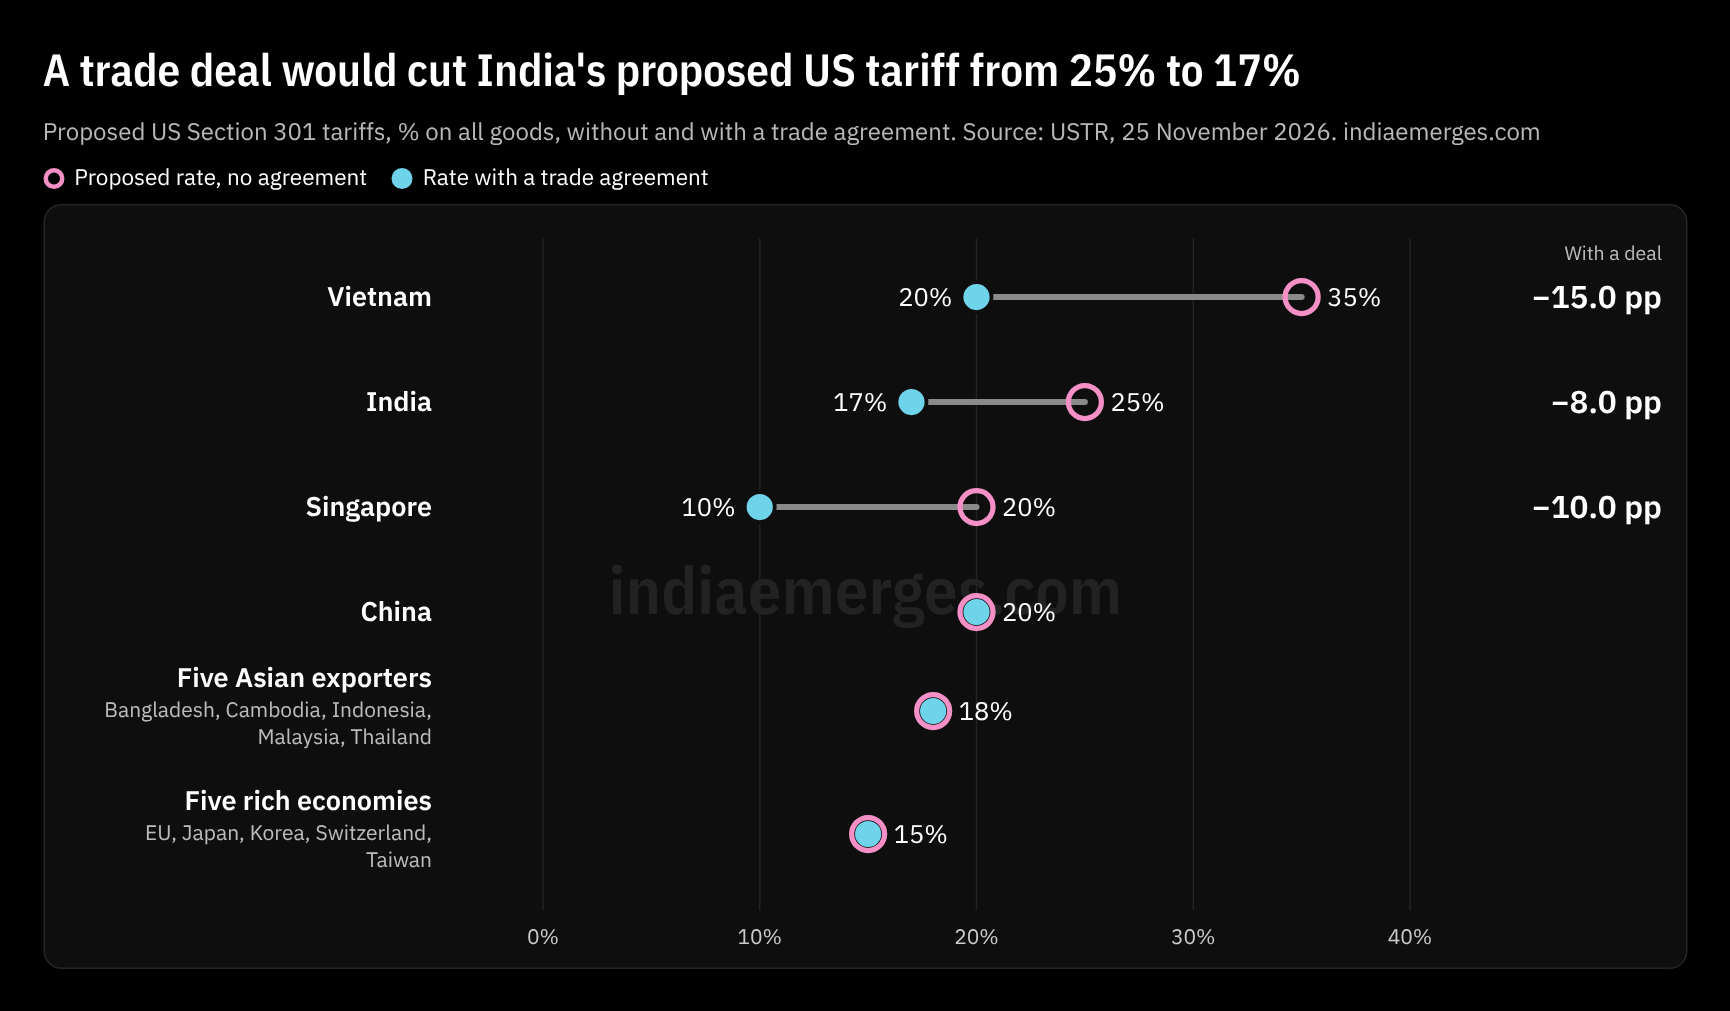
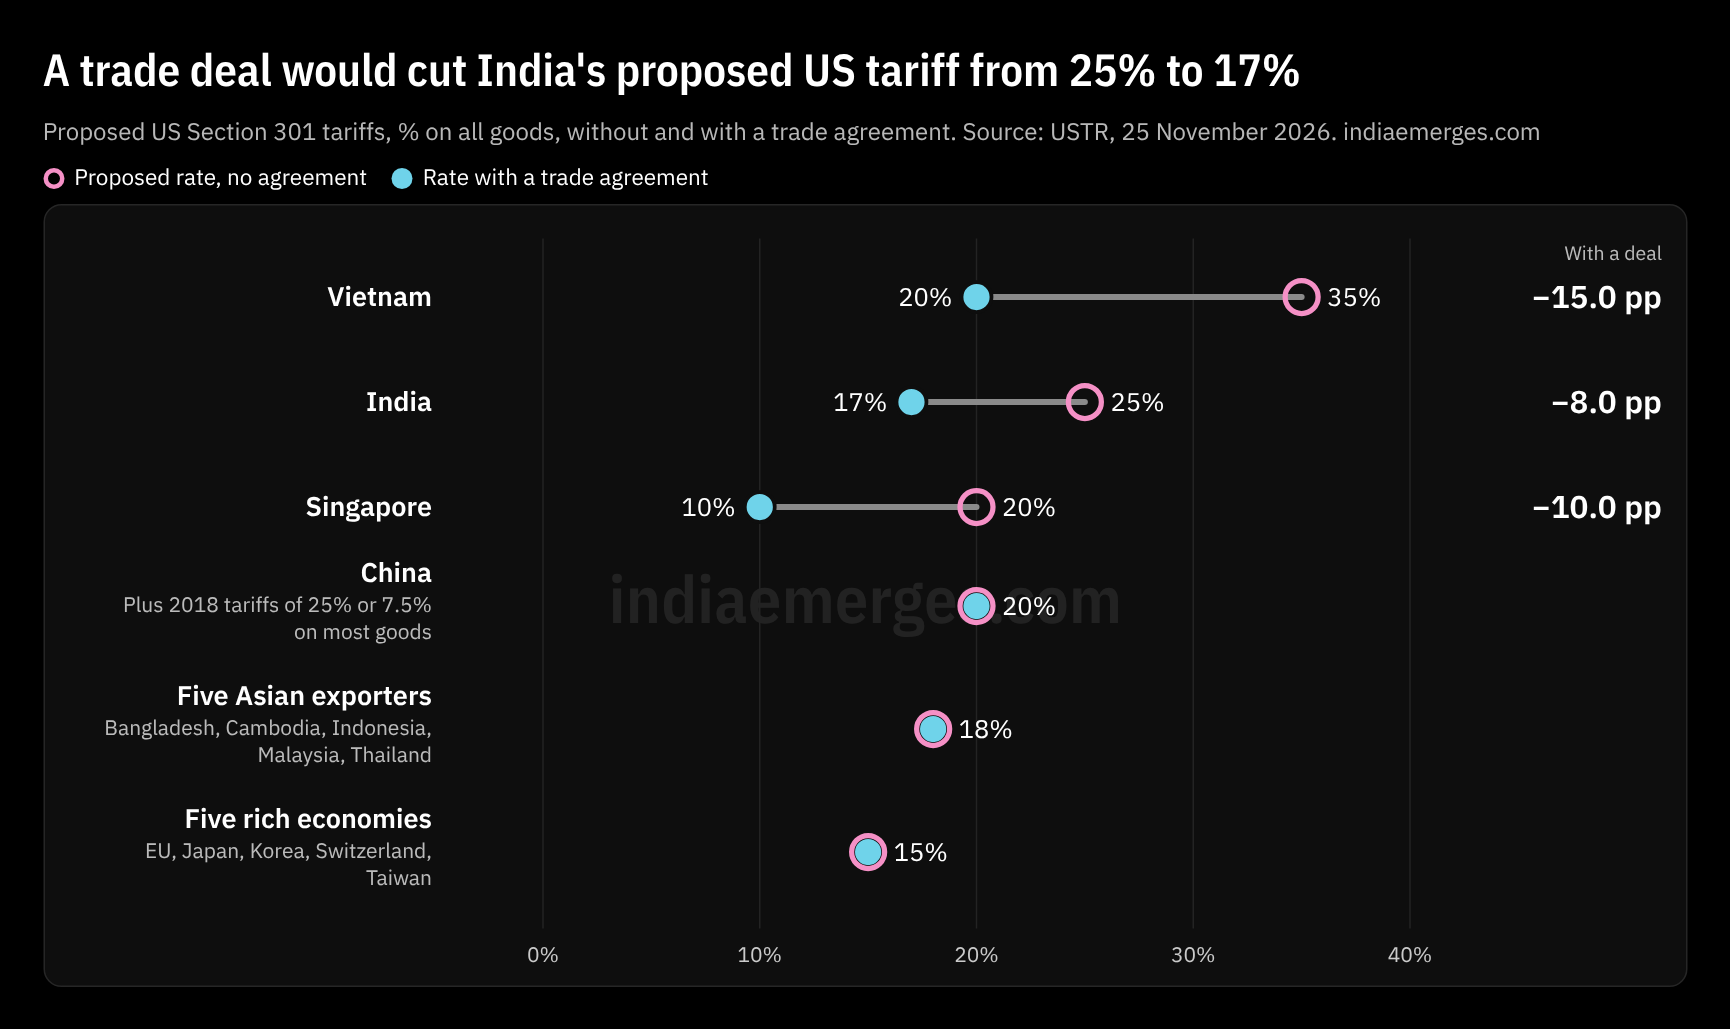
Chart of the day 25 Nov: show that China's 20% stacks on its 2018 tariffs
Claude-Session: https://claude.ai/code/session_014BVoBL9geq5oY9Pd7XYswa

diff --git a/index.html b/index.html
@@ -150,11 +150,11 @@ footer a:hover{color:#fff}
     <!-- CHART:START -->
     <div class="sh"><h2 id="h-chart">Chart of the day</h2><a href="/charts/">All charts →</a></div>
     <figure class="cod">
-      <div class="cod-int" data-spec="{&quot;type&quot;: &quot;dumbbell&quot;, &quot;data&quot;: &quot;/charts/data/2026-11-25-us-tariffs.csv&quot;, &quot;name&quot;: &quot;economy&quot;, &quot;sub&quot;: &quot;members&quot;, &quot;a&quot;: [&quot;rate_without_deal_pct&quot;, &quot;Proposed rate, no agreement&quot;, &quot;#F590C6&quot;], &quot;b&quot;: [&quot;rate_with_deal_pct&quot;, &quot;Rate with a trade agreement&quot;, &quot;#6FD3EA&quot;], &quot;gap&quot;: &quot;deal_difference_pp&quot;, &quot;gapName&quot;: &quot;With a deal&quot;, &quot;note&quot;: &quot;note&quot;, &quot;max&quot;: 40, &quot;unit&quot;: &quot;Proposed additional tariff, % on all goods&quot;, &quot;title&quot;: &quot;A trade deal would cut India&#x27;s proposed US tariff from 25% to 17%&quot;}"><h3>A trade deal would cut India&#x27;s proposed US tariff from 25% to 17%</h3><div class="ctls cod-ui"></div><div class="legend cod-legend"></div><div class="plot"><div class="cod-fallback"><a href="/charts/2026-11-25-us-tariffs.png"><img src="/charts/2026-11-25-us-tariffs.png" alt="Chart of proposed US Section 301 tariff rates, without and with a trade agreement. Vietnam 35% or 20%. India 25% or 17%. Singapore 20% or 10%. China 20%. Bangladesh, Cambodia, Indonesia, Malaysia and Thailand 18%. EU, Japan, Korea, Switzerland and Taiwan 15%." loading="lazy"></a></div><div class="cod-plot"></div></div></div>
+      <div class="cod-int" data-spec="{&quot;type&quot;: &quot;dumbbell&quot;, &quot;data&quot;: &quot;/charts/data/2026-11-25-us-tariffs.csv&quot;, &quot;name&quot;: &quot;economy&quot;, &quot;sub&quot;: &quot;members&quot;, &quot;a&quot;: [&quot;rate_without_deal_pct&quot;, &quot;Proposed rate, no agreement&quot;, &quot;#F590C6&quot;], &quot;b&quot;: [&quot;rate_with_deal_pct&quot;, &quot;Rate with a trade agreement&quot;, &quot;#6FD3EA&quot;], &quot;gap&quot;: &quot;deal_difference_pp&quot;, &quot;gapName&quot;: &quot;With a deal&quot;, &quot;note&quot;: &quot;note&quot;, &quot;max&quot;: 40, &quot;unit&quot;: &quot;Proposed additional tariff, % on all goods&quot;, &quot;title&quot;: &quot;A trade deal would cut India&#x27;s proposed US tariff from 25% to 17%&quot;}"><h3>A trade deal would cut India&#x27;s proposed US tariff from 25% to 17%</h3><div class="ctls cod-ui"></div><div class="legend cod-legend"></div><div class="plot"><div class="cod-fallback"><a href="/charts/2026-11-25-us-tariffs.png"><img src="/charts/2026-11-25-us-tariffs.png" alt="Chart of proposed US Section 301 tariff rates, without and with a trade agreement. Vietnam 35% or 20%. India 25% or 17%. Singapore 20% or 10%. China 20%, on top of existing 2018 tariffs of 25% or 7.5% on most goods. Bangladesh, Cambodia, Indonesia, Malaysia and Thailand 18%. EU, Japan, Korea, Switzerland and Taiwan 15%." loading="lazy"></a></div><div class="cod-plot"></div></div></div>
       <figcaption>
         <time datetime="2026-11-25">25 November 2026</time>
-        <p class="cod-sub">New US tariffs proposed on 25 November 2026 under Section 301 (excess manufacturing capacity), % on all goods. A second rate is offered to India, Vietnam and Singapore if they reach a trade agreement; the other economies face one rate.</p>
-        <p class="cod-cap">Without a deal, India&#x27;s proposed rate of 25% is the second highest after Vietnam&#x27;s 35%. With one, India&#x27;s 17% would be a point below the 18% proposed for Bangladesh, Cambodia, Indonesia, Malaysia and Thailand, and three below Vietnam and China at 20%, though above the 15% for the EU, Japan, Korea, Switzerland and Taiwan. The rates are proposals: hearings begin on 25 January 2027.</p>
+        <p class="cod-sub">New US tariffs proposed on 25 November 2026 under Section 301 (excess manufacturing capacity), % on all goods. A second rate is offered to India, Vietnam and Singapore if they reach a trade agreement. China&#x27;s rate comes on top of its existing 2018 tariffs.</p>
+        <p class="cod-cap">Without a deal, India&#x27;s proposed rate of 25% is the second highest after Vietnam&#x27;s 35%. With one, India&#x27;s 17% would be a point below the 18% proposed for Bangladesh, Cambodia, Indonesia, Malaysia and Thailand, and three below Vietnam at 20%, though above the 15% for the EU, Japan, Korea, Switzerland and Taiwan. China&#x27;s 20% is added to the 25% or 7.5% tariffs it has paid on most goods since 2018, taking the total on those goods to 45% or 27.5%. The rates are proposals: hearings begin on 25 January 2027.</p>
         <p class="cod-src">Source: Office of the US Trade Representative, Section 301 determinations on structural excess capacity, 25 November 2026</p>
       </figcaption>
     </figure>

diff --git a/charts/index.html b/charts/index.html
@@ -33,9 +33,9 @@
     <figure class="arc" id="2026-11-25">
       <time datetime="2026-11-25">25 November 2026</time>
       
-      <div class="cod-int" data-spec="{&quot;type&quot;: &quot;dumbbell&quot;, &quot;data&quot;: &quot;/charts/data/2026-11-25-us-tariffs.csv&quot;, &quot;name&quot;: &quot;economy&quot;, &quot;sub&quot;: &quot;members&quot;, &quot;a&quot;: [&quot;rate_without_deal_pct&quot;, &quot;Proposed rate, no agreement&quot;, &quot;#F590C6&quot;], &quot;b&quot;: [&quot;rate_with_deal_pct&quot;, &quot;Rate with a trade agreement&quot;, &quot;#6FD3EA&quot;], &quot;gap&quot;: &quot;deal_difference_pp&quot;, &quot;gapName&quot;: &quot;With a deal&quot;, &quot;note&quot;: &quot;note&quot;, &quot;max&quot;: 40, &quot;unit&quot;: &quot;Proposed additional tariff, % on all goods&quot;, &quot;title&quot;: &quot;A trade deal would cut India&#x27;s proposed US tariff from 25% to 17%&quot;}"><h3>A trade deal would cut India&#x27;s proposed US tariff from 25% to 17%</h3><div class="ctls cod-ui"></div><div class="legend cod-legend"></div><div class="plot"><div class="cod-fallback"><a href="/charts/2026-11-25-us-tariffs.png"><img src="/charts/2026-11-25-us-tariffs.png" alt="Chart of proposed US Section 301 tariff rates, without and with a trade agreement. Vietnam 35% or 20%. India 25% or 17%. Singapore 20% or 10%. China 20%. Bangladesh, Cambodia, Indonesia, Malaysia and Thailand 18%. EU, Japan, Korea, Switzerland and Taiwan 15%." loading="lazy"></a></div><div class="cod-plot"></div></div></div>
-      <p class="sub2">New US tariffs proposed on 25 November 2026 under Section 301 (excess manufacturing capacity), % on all goods. A second rate is offered to India, Vietnam and Singapore if they reach a trade agreement; the other economies face one rate.</p>
-      <p>Without a deal, India&#x27;s proposed rate of 25% is the second highest after Vietnam&#x27;s 35%. With one, India&#x27;s 17% would be a point below the 18% proposed for Bangladesh, Cambodia, Indonesia, Malaysia and Thailand, and three below Vietnam and China at 20%, though above the 15% for the EU, Japan, Korea, Switzerland and Taiwan. The rates are proposals: hearings begin on 25 January 2027.</p>
+      <div class="cod-int" data-spec="{&quot;type&quot;: &quot;dumbbell&quot;, &quot;data&quot;: &quot;/charts/data/2026-11-25-us-tariffs.csv&quot;, &quot;name&quot;: &quot;economy&quot;, &quot;sub&quot;: &quot;members&quot;, &quot;a&quot;: [&quot;rate_without_deal_pct&quot;, &quot;Proposed rate, no agreement&quot;, &quot;#F590C6&quot;], &quot;b&quot;: [&quot;rate_with_deal_pct&quot;, &quot;Rate with a trade agreement&quot;, &quot;#6FD3EA&quot;], &quot;gap&quot;: &quot;deal_difference_pp&quot;, &quot;gapName&quot;: &quot;With a deal&quot;, &quot;note&quot;: &quot;note&quot;, &quot;max&quot;: 40, &quot;unit&quot;: &quot;Proposed additional tariff, % on all goods&quot;, &quot;title&quot;: &quot;A trade deal would cut India&#x27;s proposed US tariff from 25% to 17%&quot;}"><h3>A trade deal would cut India&#x27;s proposed US tariff from 25% to 17%</h3><div class="ctls cod-ui"></div><div class="legend cod-legend"></div><div class="plot"><div class="cod-fallback"><a href="/charts/2026-11-25-us-tariffs.png"><img src="/charts/2026-11-25-us-tariffs.png" alt="Chart of proposed US Section 301 tariff rates, without and with a trade agreement. Vietnam 35% or 20%. India 25% or 17%. Singapore 20% or 10%. China 20%, on top of existing 2018 tariffs of 25% or 7.5% on most goods. Bangladesh, Cambodia, Indonesia, Malaysia and Thailand 18%. EU, Japan, Korea, Switzerland and Taiwan 15%." loading="lazy"></a></div><div class="cod-plot"></div></div></div>
+      <p class="sub2">New US tariffs proposed on 25 November 2026 under Section 301 (excess manufacturing capacity), % on all goods. A second rate is offered to India, Vietnam and Singapore if they reach a trade agreement. China&#x27;s rate comes on top of its existing 2018 tariffs.</p>
+      <p>Without a deal, India&#x27;s proposed rate of 25% is the second highest after Vietnam&#x27;s 35%. With one, India&#x27;s 17% would be a point below the 18% proposed for Bangladesh, Cambodia, Indonesia, Malaysia and Thailand, and three below Vietnam at 20%, though above the 15% for the EU, Japan, Korea, Switzerland and Taiwan. China&#x27;s 20% is added to the 25% or 7.5% tariffs it has paid on most goods since 2018, taking the total on those goods to 45% or 27.5%. The rates are proposals: hearings begin on 25 January 2027.</p>
       <p class="src">Source: Office of the US Trade Representative, Section 301 determinations on structural excess capacity, 25 November 2026</p>
     </figure>
     <figure class="arc" id="2026-11-24">
